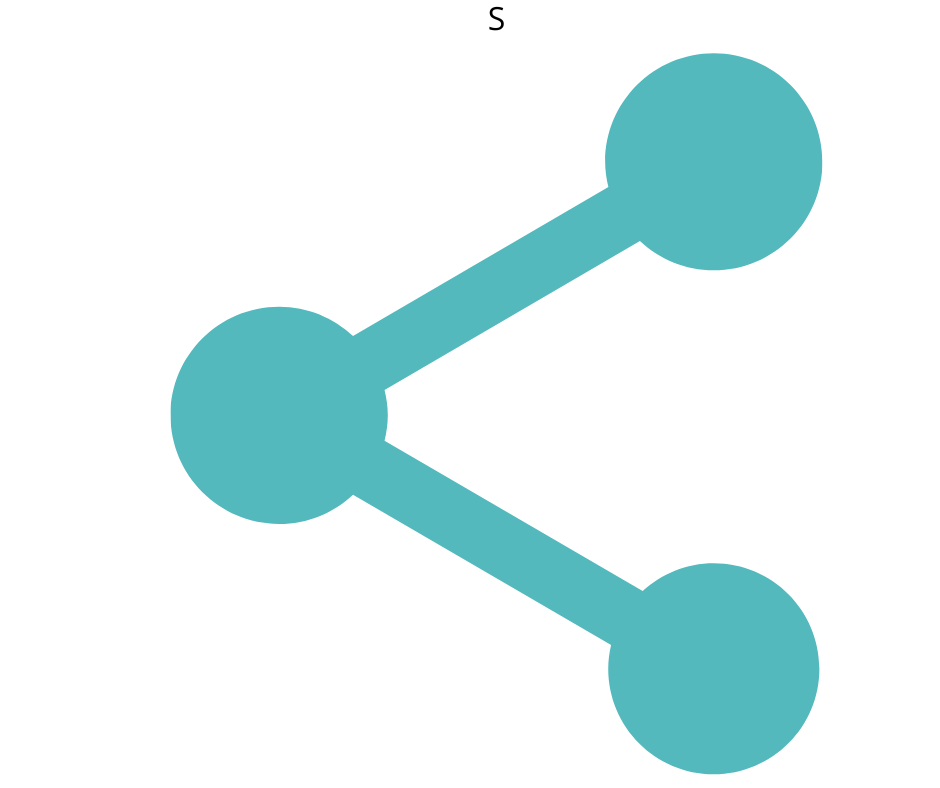
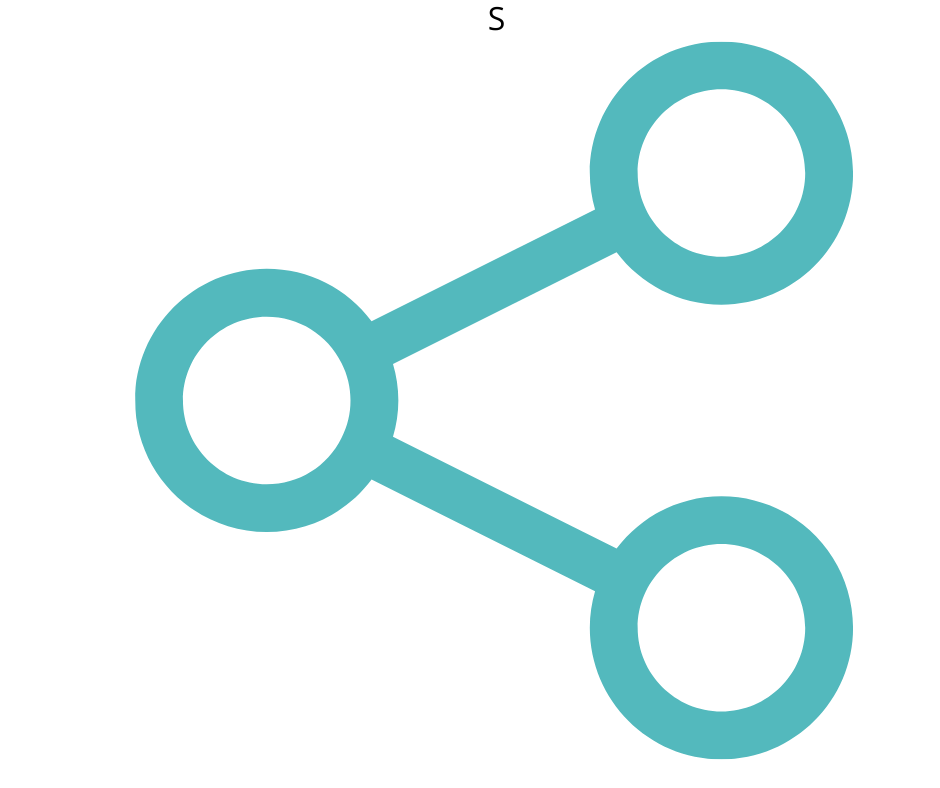
CIA-37: Agregar iconos de submenus

diff --git a/src/pages/radiologia/pages/visor-dicom.jsx b/src/pages/radiologia/pages/visor-dicom.jsx
@@ -15,7 +15,7 @@ import descargarIcon from "../../../assets/descargarIcono.png";
 import detallesIcon from "../../../assets/detallesIcono.png";
 import reporteIcon from "../../../assets/editarIcono.png";
 import formatoIcon from "../../../assets/formatoIcono.png";
-import capturaIcon from "../../../assets/imprimirIcono.png";
+import capturaIcon from "../../../assets/capturaIcono.png";
 import informacionIcon from "../../../assets/informacionIcono.png";
 import longitudIcono from "../../../assets/longitudIcono.png";
 import ampliarIcon from "../../../assets/lupaIcono.png";
@@ -24,6 +24,26 @@ import moverIcon from "../../../assets/moverIcono.png";
 import ojosIcono from "../../../assets/ojosIcono.png";
 import restaurarIcon from "../../../assets/restaurarIcono.png";
 import scrollIcon from "../../../assets/scrollIcono.png";
+import ventanaIcon from "../../../assets/ventanaIcono.png";
+import elipeIcon from "../../../assets/elipseIcono.png";
+import rectanguloIcon from "../../../assets/rectanguloIcono.png";
+import negativoIcon from "../../../assets/negativoIcono.png";
+import girarIcon from "../../../assets/girarIcono.png";
+import horizontalIcon from "../../../assets/horizontalIcono.png";
+import verticalIcon from "../../../assets/verticalIcono.png";
+import basuraIcon from "../../../assets/basuraIcon.png";
+import bidireccionalIcon from "../../../assets/bidireccionalIcono.png";
+import doctorIcon from "../../../assets/doctorV2Icono.png";
+import referenteIcon from "../../../assets/referenteIcono.png";
+import tecnicoIcon from "../../../assets/tecnicoIcono.png";
+import exclamacionIcon from "../../../assets/exclamacionIcono.png";
+import comentarioIcon from "../../../assets/comentarioIcono.png";
+import etiquetaIcon from "../../../assets/etiquetaIcono.png";
+import solicitudIcon from "../../../assets/solicitudIcono.png";
+import metricasIcon from "../../../assets/metricasIcono.png";
+import pestanaIcon from "../../../assets/pestanaIcono.png";
+import splitIcon from "../../../assets/splitIcono.png";
+import clipIcon from "../../../assets/clipIcon.png";
 
 let csModules = null;
 let csInitPromise = null;
@@ -86,32 +106,32 @@ const FORMATOS = [
 
 const MAS_ITEMS = [
 	{ id: "lupa", icon: ampliarIcon, emoji: null, label: "Lupa" },
-	{ id: "ventanaROI", icon: null, emoji: "⬛", label: "Ventana ROI" },
-	{ id: "elipse", icon: null, emoji: "⬭", label: "Elipse" },
-	{ id: "rectangulo", icon: null, emoji: "▭", label: "Rectángulo" },
-	{ id: "negativo", icon: contrasteIcono, emoji: null, label: "Negativo" },
-	{ id: "girar", icon: restaurarIcon, emoji: null, label: "Girar →" },
-	{ id: "voltearH", icon: null, emoji: "↔", label: "Voltear H" },
-	{ id: "voltearV", icon: null, emoji: "↕", label: "Voltear V" },
-	{ id: "limpiar", icon: null, emoji: "🗑", label: "Limpiar" },
-	{ id: "bidireccional", icon: null, emoji: "⇄", label: "Bidireccional" },
+	{ id: "ventanaROI", icon: ventanaIcon, emoji: "⬛", label: "Ventana ROI" },
+	{ id: "elipse", icon: elipeIcon, emoji: "⬭", label: "Elipse" },
+	{ id: "rectangulo", icon: rectanguloIcon, emoji: "▭", label: "Rectángulo" },
+	{ id: "negativo", icon: negativoIcon, emoji: null, label: "Negativo" },
+	{ id: "girar", icon: girarIcon, emoji: null, label: "Girar →" },
+	{ id: "voltearH", icon: horizontalIcon, emoji: "↔", label: "Voltear H" },
+	{ id: "voltearV", icon: verticalIcon, emoji: "↕", label: "Voltear V" },
+	{ id: "limpiar", icon: basuraIcon, emoji: "🗑", label: "Limpiar" },
+	{ id: "bidireccional", icon: bidireccionalIcon, emoji: "⇄", label: "Bidireccional" },
 ];
 
 const DETALLE_ITEMS = [
-	{ id: "referente", emoji: "👤", label: "Referente" },
-	{ id: "radiologo", emoji: "👨⚕", label: "Radiólogo" },
-	{ id: "tecnico", emoji: "👩💻", label: "Técnico" },
-	{ id: "prioridad", emoji: "❗", label: "Prioridad" },
-	{ id: "comentarios", emoji: "🗒", label: "Comentarios" },
-	{ id: "etiquetas", emoji: "🏷", label: "Etiquetas" },
-	{ id: "solicitud", emoji: "📄", label: "Solicitud" },
-	{ id: "metricas", emoji: "📊", label: "Métricas" },
+	{ id: "referente", icon: referenteIcon, emoji: "👤", label: "Referente" },
+	{ id: "radiologo", icon: doctorIcon, emoji: "👨⚕", label: "Radiólogo" },
+	{ id: "tecnico", icon: tecnicoIcon, emoji: "👩💻", label: "Técnico" },
+	{ id: "prioridad", icon: exclamacionIcon, emoji: "❗", label: "Prioridad" },
+	{ id: "comentarios", icon: comentarioIcon,emoji: "🗒", label: "Comentarios" },
+	{ id: "etiquetas", icon: etiquetaIcon, emoji: "🏷", label: "Etiquetas" },
+	{ id: "solicitud", icon: solicitudIcon, emoji: "📄", label: "Solicitud" },
+	{ id: "metricas", icon: metricasIcon, emoji: "📊", label: "Métricas" },
 ];
 
 const REPORTE_ITEMS = [
-	{ id: "nueva-pestana", emoji: "📋", label: "Nueva pestaña" },
-	{ id: "visualizacion-simultanea", emoji: "🖥", label: "Visualización simultánea" },
-	{ id: "adjuntar", emoji: "📎", label: "Adjuntar" },
+	{ id: "nueva-pestana", icon: pestanaIcon, emoji: "📋", label: "Nueva pestaña" },
+	{ id: "visualizacion-simultanea", icon: splitIcon, emoji: "🖥", label: "Visualización simultánea" },
+	{ id: "adjuntar", icon: clipIcon, emoji: "📎", label: "Adjuntar" },
 ];
 
 const PanelDicom = ({
